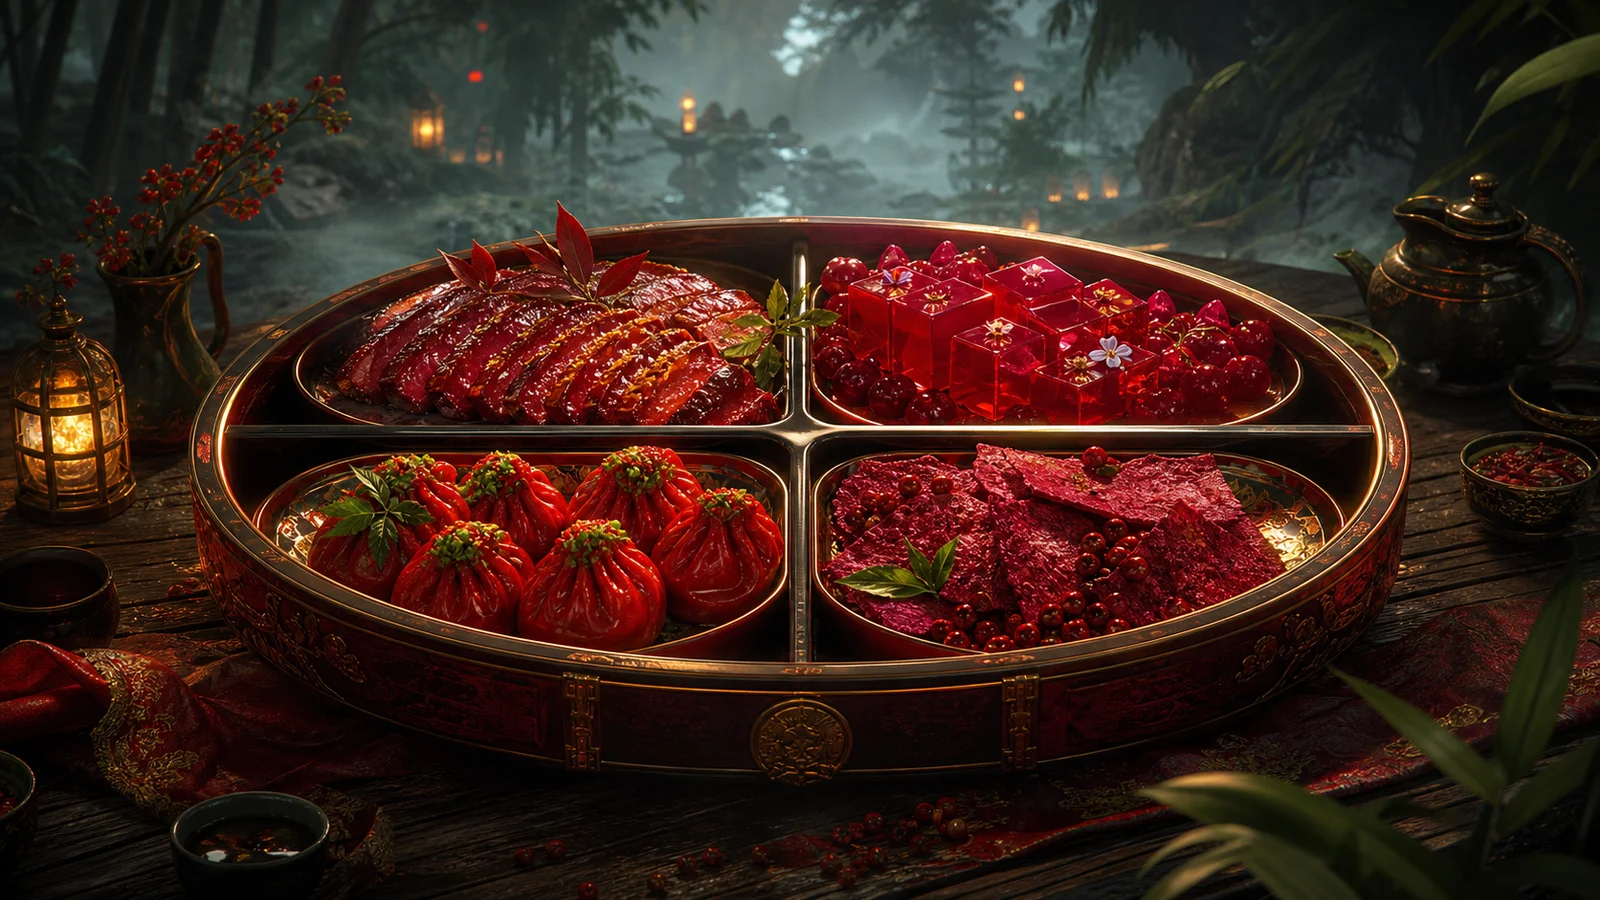
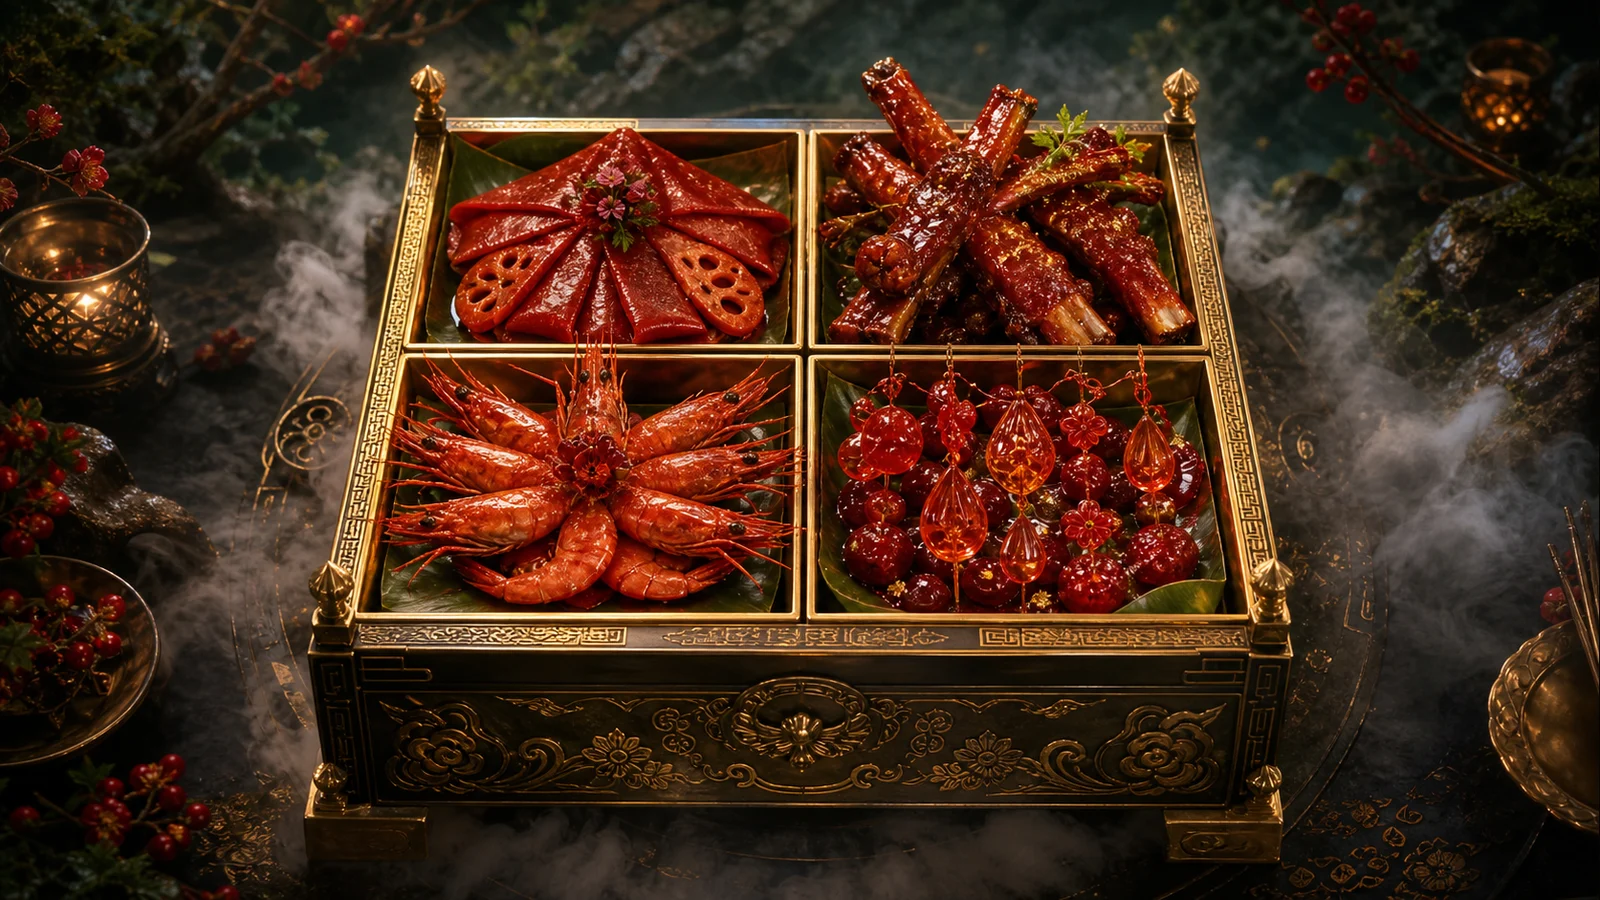
content: revise guaranteed red platter

diff --git a/src/content/menu-items/guaranteed-red-four-platter.md b/src/content/menu-items/guaranteed-red-four-platter.md
@@ -3,19 +3,21 @@ title: "开箱必出红四拼盘"
 slug: "guaranteed-red-four-platter"
 map: "聚窟洲"
 category: "套餐"
-description: "四格红色拼盘各守一味，落桌只讲排面，不承诺任何现实概率。"
+description: "四道赤红佳肴一盘集齐，以开箱霞光与满载而归的好彩头抚平久抽不红的烦闷。"
 order: 1
-dishIntro: "四格食盒盛着四种红色小食，开盖先见暗红暖光，再逐格尝鲜。菜名里的“必出”只负责添彩，不对应任何游戏或现实概率。"
-dishSetting: "铜包角木食盒分作四格，分别摆入红椒卷、胭脂萝卜、红米团与红色果冻，少量金色反光衬出席面层次。本站借开箱与红色稀有奖励的语境完成餐厅化摆盘，不复刻宝箱、品质图标或抽奖界面。"
-playerComment: "本站席间趣评：这一盒的好运写在菜名里，真正稳稳到手的是四格各不相同的口感。"
-recommendedPairing: "搭配昆仑净雪莲，以清润冷饮收住四格小食的甜、酸与微辣。"
+dishIntro: "这道聚窟洲特色宴席菜专为抽箱难出红皮的侠客打造，一整盘四道赤红佳肴，上桌伴云雾复刻宝箱开箱特效。四道菜品分别对应时装、近战、远程、挂饰四类神品，一盘集齐全套红品，寓意开箱保底必出大红。浓鲜交织的风味能抚平长久垫箱不出极品的烦闷，是开黑聚餐的热门招牌。"
+dishSetting: "整菜采用刻有宝箱与返魂花纹饰的四格鎏金方盘盛放，四道食材皆以赤红酱汁塑形：乳鸽藕糕仿红皮衣袍，肋排塑成各类近战兵器，焗大虾还原远程武器轮廓，蜜渍山楂做成精美挂饰糖雕。上桌时由宝箱造型托盘端上，白雾升腾还原开宝箱的霞光观感；四人同席分食整盘，暗含组队开箱全员出神品的美好寓意。"
+playerComment: "常有人打趣百抽满是普通藏品，不如一盘四红慰藉非酋。打完对局点上这道菜，便能期许后续开箱得心仪红皮；也有老侠客感慨往日攒金块苦抽宝箱，如今一桌珍馐便能圆集齐神品的心愿。胜局之后配上此菜，更是讨新赛季集齐极品装备的好彩头。以上转运说法均为本站席间二创趣谈。"
+recommendedPairing: "食用时可搭配清爽的返魂花刺身中和浓腻，焦木炙烤和牛贴合对局振刀意境，佐以温润龙髓高汤调和口感；餐前浅饮赤红果酿讨见红吉兆，餐后搭配鎏金宝箱造型酥饼与金箔清茶收尾，口感层次完整，也契合开箱满载而归的寓意。以上搭配均为本站虚拟菜单设定。"
 relatedElements:
-  - "开箱与红色稀有奖励语境"
-  - "四格红色小食"
-  - "聚窟洲雾林木案"
+  - "宝箱百抽保底与红色神品四大品类的玩家语境"
+  - "时装、近战、远程与挂饰四类赤红菜形"
+  - "宝箱托盘、金箔白雾与开箱流光意象"
+  - "返魂花、龙髓高汤与主流兵器造型的菜品化二创"
+  - "聚窟洲侠客点菜祈福与食后转运传说（本站虚构席间传闻）"
 image:
   src: "/assets/dishes/menu/guaranteed-red-four-platter.webp"
-  alt: "圆形四格漆盘内分别摆放红色烤肉、果冻、包点和薄脆，置于雾林暖灯木案上"
+  alt: "四格鎏金方盘内摆着红袍形乳鸽藕糕、酱烤肋排、焗大虾与山楂糖饰，宝箱造型托盘周围升起白雾"
   credit: "AI 生成原创视觉，由项目维护者整理"
   license: "项目原创生成图，仅供本站非商业展示"
 ---

diff --git a/docs/visual-asset-register.md b/docs/visual-asset-register.md
@@ -57,7 +57,7 @@
 | `public/assets/dishes/menu/fire-cage-barbecue.webp` | “火笼烧烤”菜单卡片、详情和推荐图 | 镂空铜色笼形炭炉在木桌中央燃烧，周围摆满肉串、菌菇和青椒烤串 | OpenAI 内置 imagegen；项目维护者整理 | 项目原创生成图，仅供本站非商业展示；不含官方素材，不代表官方概念设计 |
 | `public/assets/dishes/menu/fireman-wok-toss.webp` | “火男怒火颠勺”菜单卡片、详情和推荐图 | 圆底铁锅在烈焰中颠起肉片、藕片、辣椒与葱段，背景为雾林夜宴 | OpenAI 内置 imagegen；项目维护者整理 | 项目原创生成图，仅供本站非商业展示；不含官方素材，不代表官方概念设计 |
 | `public/assets/dishes/menu/gaoshou-peach-crisps.webp` | “糕手桃酥”菜单卡片、详情和推荐图 | 金黄开裂桃酥与三枚粉白桃形点心摆在漆盘上，旁边有热茶与桃花 | OpenAI 内置 imagegen；项目维护者整理 | 项目原创生成图，仅供本站非商业展示；不含官方素材，不代表官方概念设计 |
-| `public/assets/dishes/menu/guaranteed-red-four-platter.webp` | “开箱必出红四拼盘”菜单卡片、详情和推荐图 | 圆形四格漆盘内分别摆放红色烤肉、果冻、包点和薄脆，置于雾林暖灯木案上 | OpenAI 内置 imagegen；项目维护者整理 | 项目原创生成图，仅供本站非商业展示；不含官方素材，不代表官方概念设计 |
+| `public/assets/dishes/menu/guaranteed-red-four-platter.webp` | “开箱必出红四拼盘”菜单卡片、详情和推荐图 | 四格鎏金方盘内摆着红袍形乳鸽藕糕、酱烤肋排、焗大虾与山楂糖饰，宝箱造型托盘周围升起白雾 | OpenAI 内置 imagegen；项目维护者整理 | 项目原创生成图，仅供本站非商业展示；使用抽象花纹、宝箱意象与通用食材造型，不含官方素材，不代表官方概念设计 |
 | `public/assets/dishes/menu/jidi-city-red-sausage.webp` | “极帝城红肠”菜单卡片、详情和推荐图 | 黑色长盘上铺满焦边红肠厚片、香草和深色浆果，背景是青光洞壁、铜屏与紫色星点 | OpenAI 内置 imagegen；项目维护者整理 | 项目原创生成图，仅供本站非商业展示；抽象洞窟宴席不对应官方地标，不代表官方概念设计 |
 | `public/assets/dishes/menu/kunlun-snow-lotus.webp` | “昆仑净雪莲”菜单卡片、详情和推荐图 | 浅青冰盏中盛着清澈冷饮与霜白莲形冻，四周铺有碎冰，背景为明亮沙漠宫席 | OpenAI 内置 imagegen；项目维护者整理 | 项目原创生成图，仅供本站非商业展示；不含官方素材，不代表官方概念设计 |
 | `public/assets/dishes/menu/purple-herb-seven-peaches.webp` | “紫草炖七桃”菜单卡片、详情和推荐图 | 深紫陶钵中盛着紫色甜汤和七枚浅粉桃形团子，中央点缀薄荷，背景为雾林暖灯 | OpenAI 内置 imagegen；项目维护者整理 | 项目原创生成图，仅供本站非商业展示；不含官方素材，不代表官方概念设计 |

diff --git a/docs/research/menu-image-review.md b/docs/research/menu-image-review.md
@@ -22,7 +22,7 @@
 | 火笼烧烤 | `public/assets/dishes/menu/fire-cage-barbecue.webp` | 聚窟洲 | 清晰；中央笼形炭炉及四周烤串可辨识 | 炭黑、火橙、夜蓝 | 未见文字或文字伪影、人物、Logo、游戏 UI、截图或可识别官方素材；火焰纹炉罩为原创器物装饰 | 通过，可用于本站非商业展示 |
 | 火男怒火颠勺 | `public/assets/dishes/menu/fireman-wok-toss.webp` | 聚窟洲 | 清晰；铁锅、肉片、藕片、辣椒和翻炒动作明确 | 火橙、酱褐、深绿 | 未见文字或文字伪影、人物、Logo、游戏 UI、截图或可识别官方素材；仅表现菜品动作，不呈现可识别角色 | 通过，可用于本站非商业展示 |
 | 糕手桃酥 | `public/assets/dishes/menu/gaoshou-peach-crisps.webp` | 聚窟洲 | 清晰；桃形点心与开裂桃酥均可辨识 | 桃粉、酥金、墨绿 | 未见文字或文字伪影、人物、Logo、游戏 UI、截图或可识别官方素材；器皿与林景为通用原创元素 | 通过，可用于本站非商业展示 |
-| 开箱必出红四拼盘 | `public/assets/dishes/menu/guaranteed-red-four-platter.webp` | 聚窟洲 | 清晰；圆形四格盘内四类红色食物区分明确 | 绛红、铜金、雾绿 | 未见文字或文字伪影、人物、Logo、游戏 UI、截图或可识别官方素材；四格盘纹样为原创装饰，不模拟游戏开箱界面 | 通过，可用于本站非商业展示 |
+| 开箱必出红四拼盘 | `public/assets/dishes/menu/guaranteed-red-four-platter.webp` | 聚窟洲 | 清晰；鎏金方盘内四类赤红食物和宝箱造型托盘均完整可见 | 绛红、鎏金、墨绿、雾白 | 未见文字或文字伪影、人物、Logo、游戏 UI、截图或可识别官方素材；盘面花纹、托盘和食物轮廓均为抽象原创设计，不复刻官方宝箱、返魂花图标或武器模型 | 通过，可用于本站非商业展示 |
 | 极帝城红肠 | `public/assets/dishes/menu/jidi-city-red-sausage.webp` | 龙隐洞天 | 清晰；厚切红肠为前景主体 | 深红、青蓝、紫金 | 未见文字或文字伪影、人物、Logo、游戏 UI、截图或可识别官方素材；青光洞壁、铜屏与散落紫色光点为抽象原创环境，不对应官方 UI 或地图地标 | 通过，可用于本站非商业展示 |
 | 昆仑净雪莲 | `public/assets/dishes/menu/kunlun-snow-lotus.webp` | 火罗国 | 清晰；白色莲形冻与浅青冰饮居中 | 霜白、浅青、沙金 | 未见文字或文字伪影、人物、Logo、游戏 UI、截图或可识别官方素材；明亮沙漠宴席为通用原创场景 | 通过，可用于本站非商业展示 |
 | 紫草炖七桃 | `public/assets/dishes/menu/purple-herb-seven-peaches.webp` | 聚窟洲 | 清晰；紫色汤中七枚桃形团子可数且突出 | 紫罗兰、桃粉、暗金 | 未见文字或文字伪影、人物、Logo、游戏 UI、截图或可识别官方素材；林中席面为通用原创场景 | 通过，可用于本站非商业展示 |
